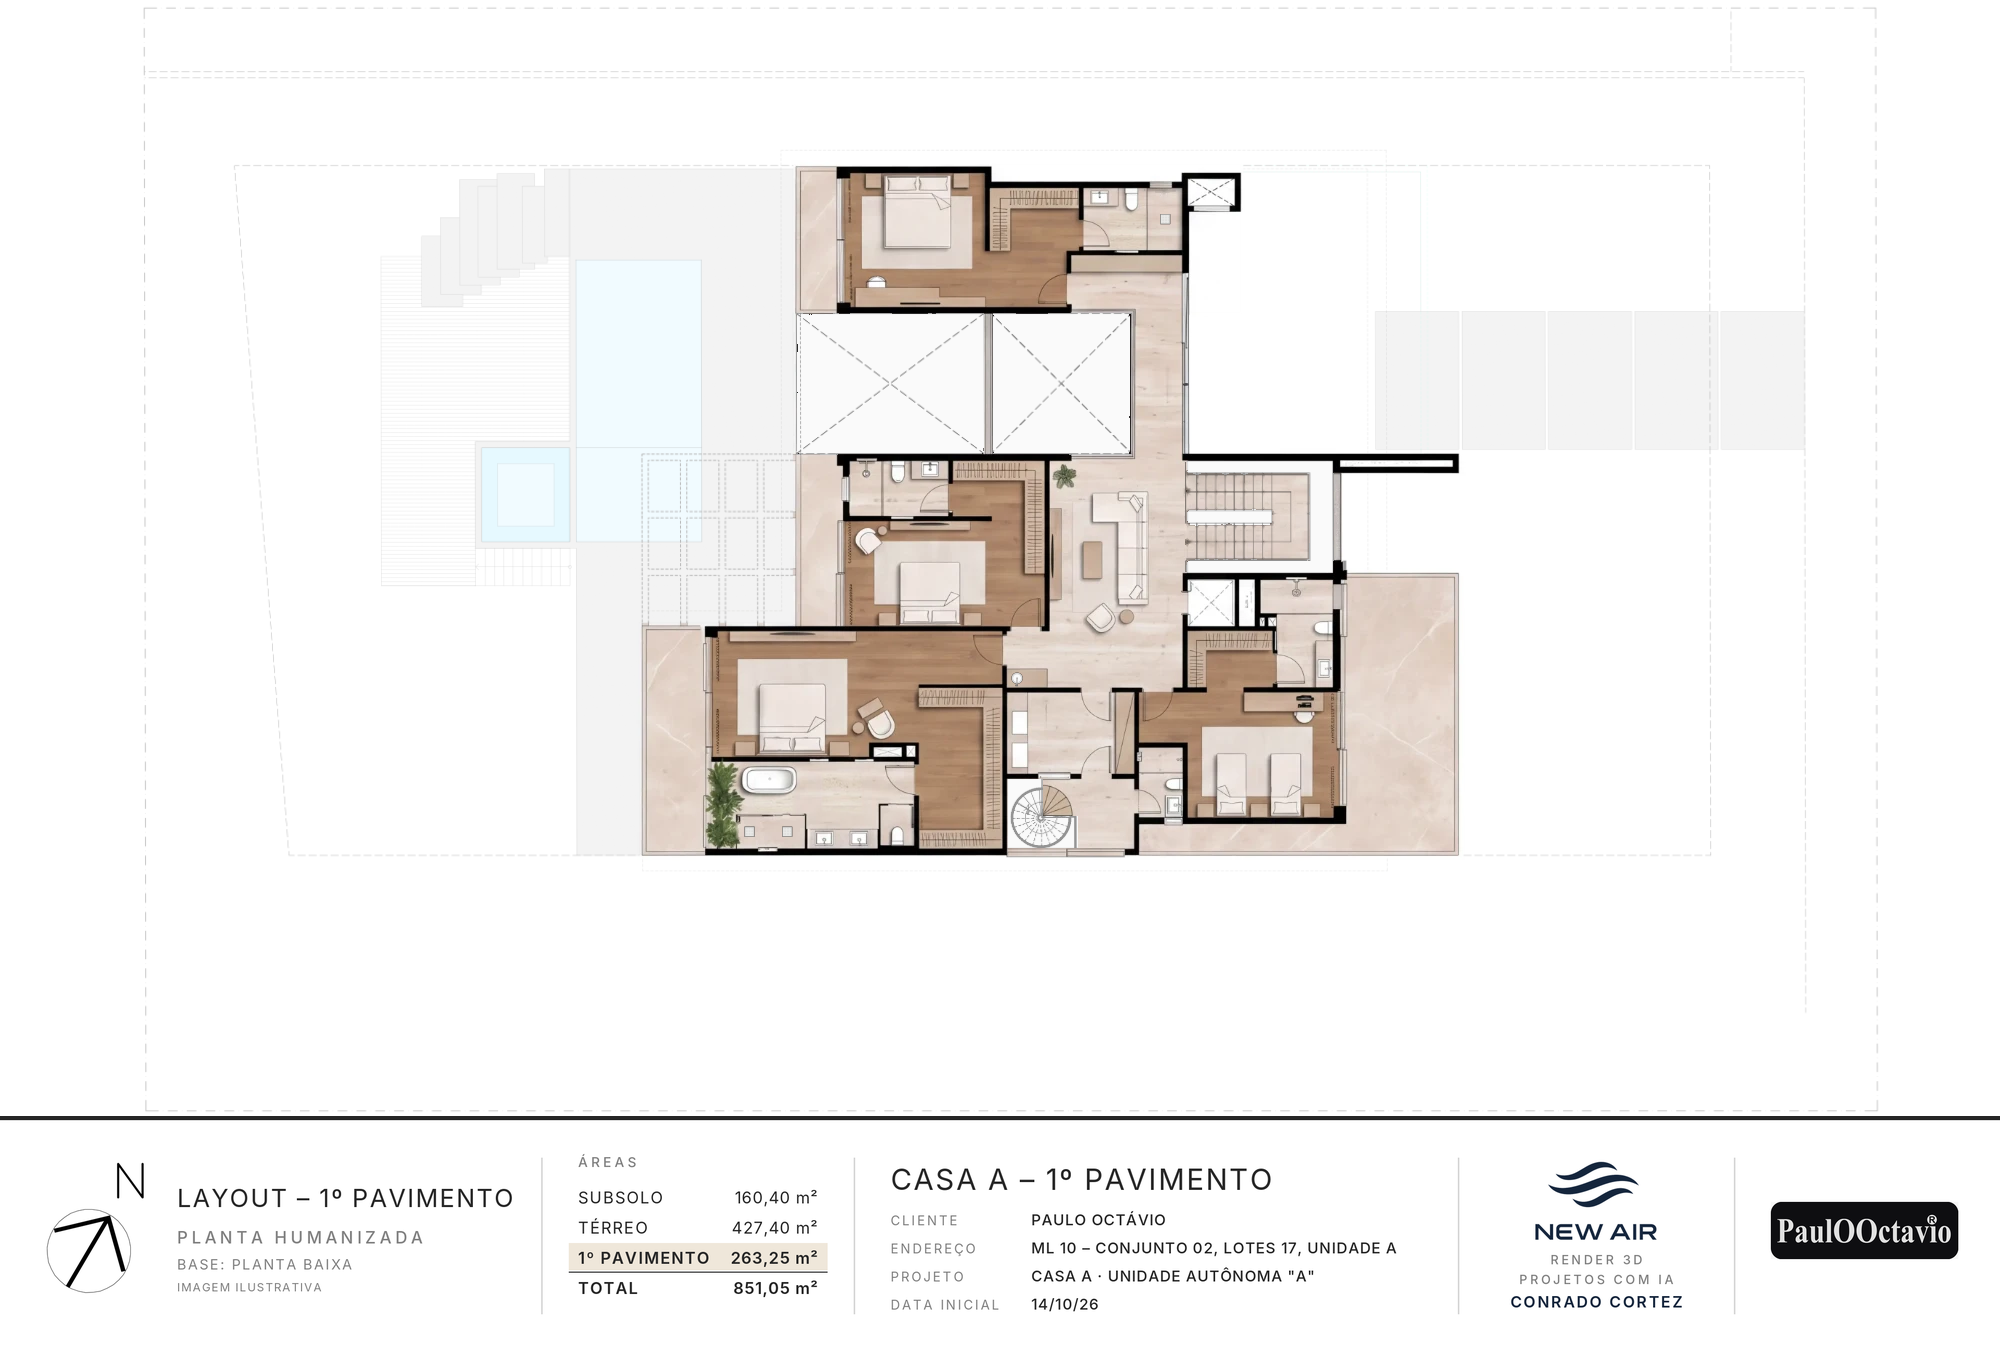
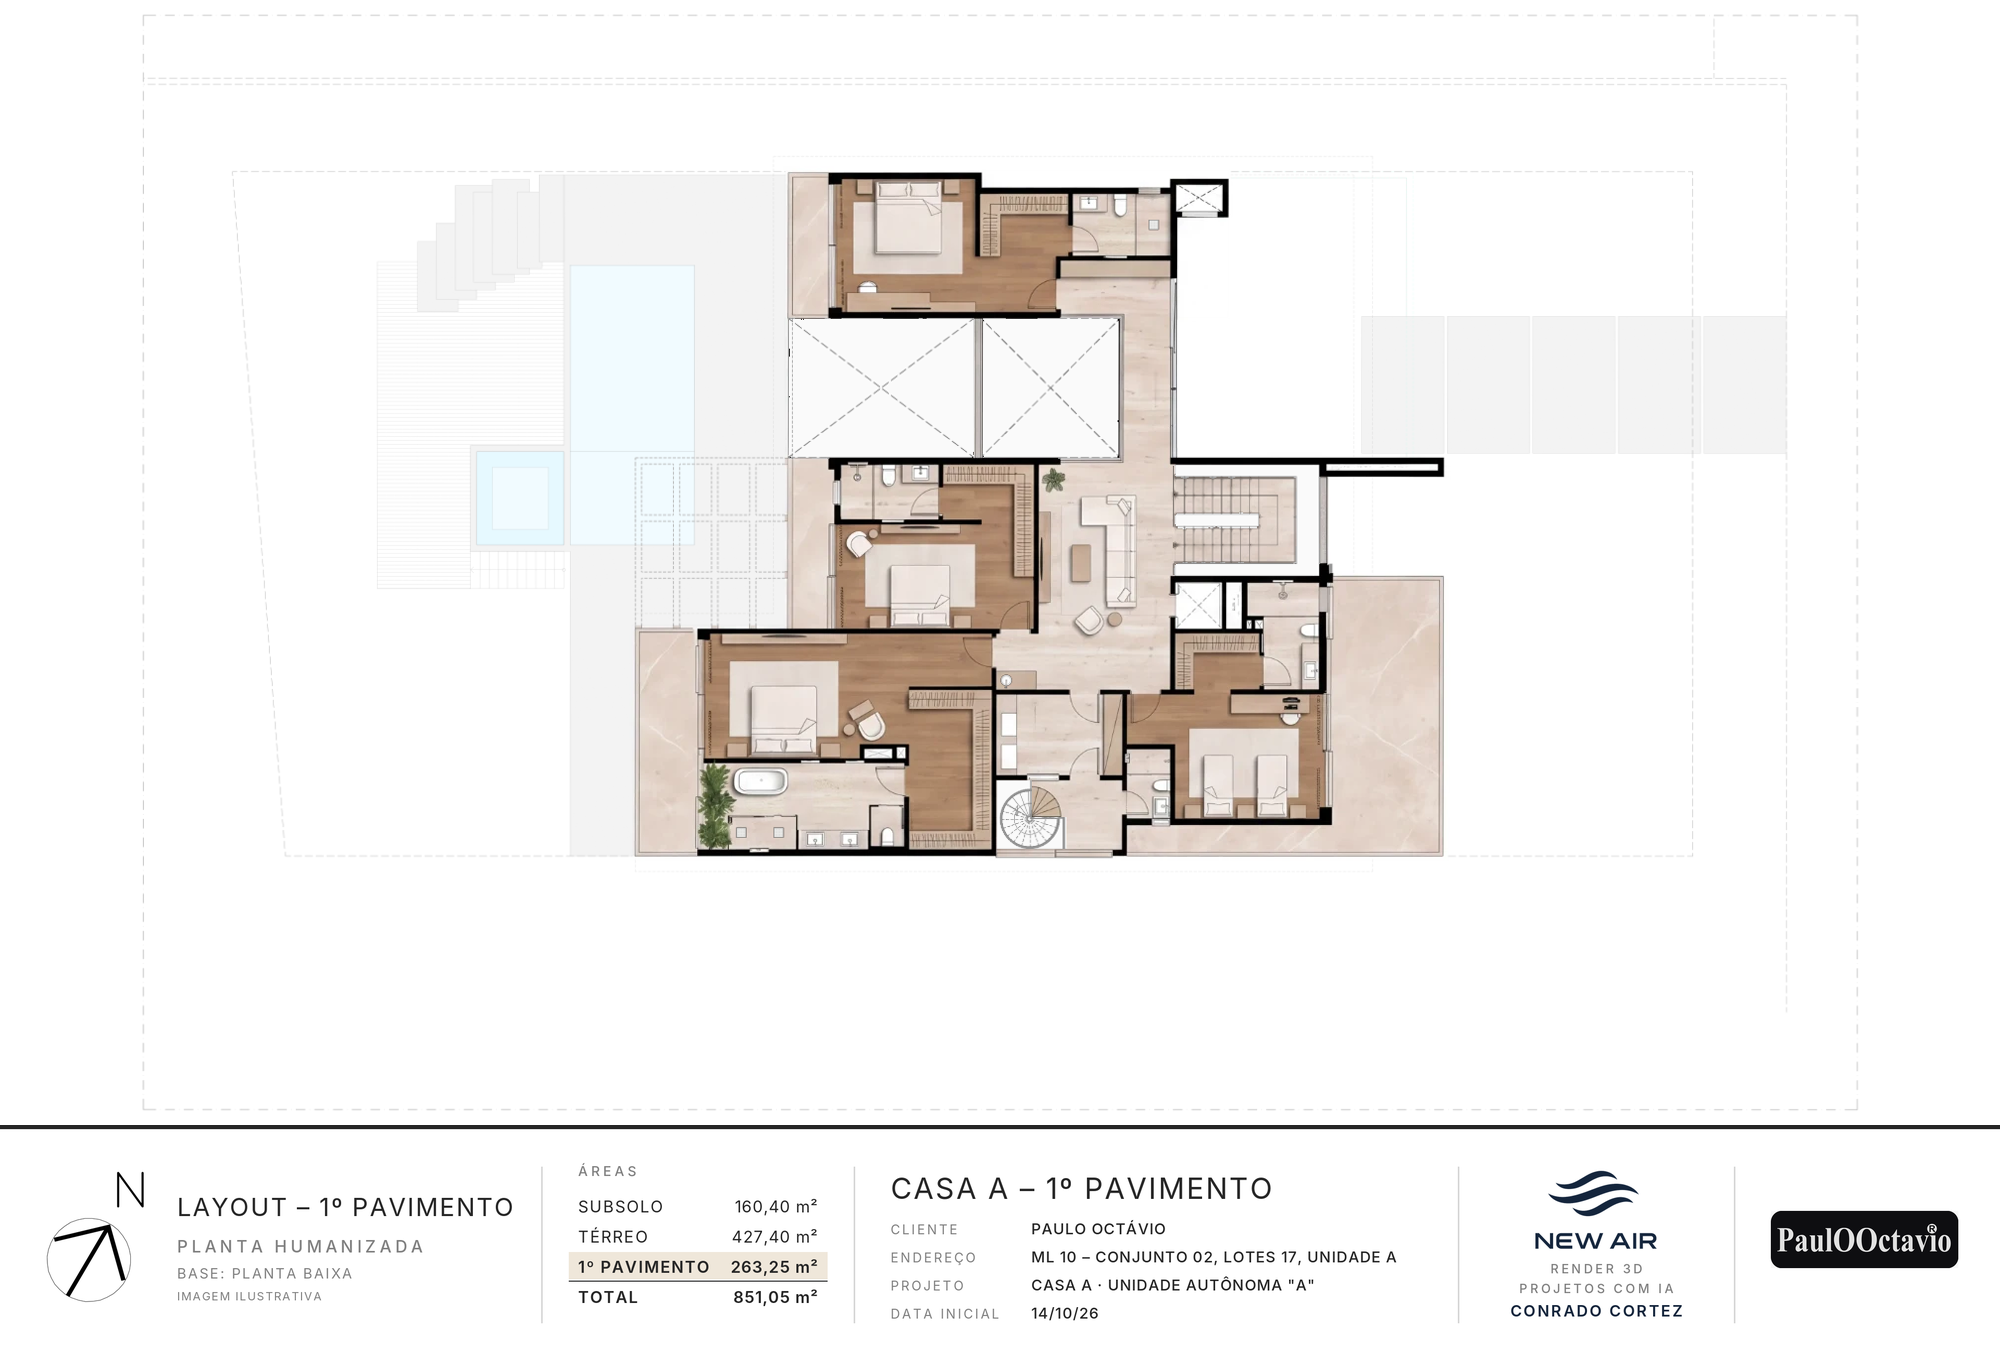
POE 642 Casa A: prancha do Térreo e pranchas no mesmo quadro
Cada render é alinhado à base do seu pavimento e levado ao quadro 16:9
comum (as três bases saem do mesmo enquadramento da folha do cliente), de
modo que as pranchas têm o mesmo tamanho e a planta no mesmo pixel. Entram
a prancha do Térreo, a do 1º Pavimento refeita e um GIF das duas
perfiladas.

Claude-Session: https://claude.ai/code/session_01Mm19WX3KoLN1nXMDF5Ay3F

diff --git a/projetos/POE642_CasaA/scripts/rodape_entrega.py b/projetos/POE642_CasaA/scripts/rodape_entrega.py
@@ -4,14 +4,21 @@
 Segue o carimbo da folha de layout do cliente (642-ARQ-EX-001): norte, título "LAYOUT – …",
 quadro de áreas, dados do projeto, assinatura do render (New Air) e marca do cliente. Não leva cotas.
 
+As pranchas têm todas o mesmo tamanho e a planta no mesmo lugar: cada render é alinhado
+(SIFT + afim) à base do seu pavimento, e as três bases saem do mesmo enquadramento da folha
+do cliente (a piscina cai no mesmo pixel nas três). Assim, vistas em sequência, uma planta
+fica exatamente "dentro" da outra.
+
 Uso:
   python rodape_entrega.py --saida ../entrega                    # só os três rodapés (3840 px)
-  python rodape_entrega.py --saida ../entrega --render 1Pavimento=../renders/x.png
-      # também a prancha: render + rodapé na largura do render
+  python rodape_entrega.py --saida ../entrega --render Terreo=../renders/t.png --render 1Pavimento=../renders/p.png
+      # também as pranchas: render alinhado ao quadro comum + rodapé
 """
 import argparse
 from pathlib import Path
 
+import cv2
+import numpy as np
 from PIL import Image, ImageDraw, ImageFont
 
 AQUI = Path(__file__).resolve().parent
@@ -142,11 +149,39 @@ def rodape(chave):
     return im.convert("RGB")
 
 
+BASES = {"Terreo": "POE642_CasaA_BASE_Terreo_v6_16x9.png",
+         "1Pavimento": "POE642_CasaA_BASE_1Pavimento_v3_16x9.png",
+         "Subsolo": "POE642_CasaA_BASE_Subsolo_v4_16x9.png"}
+
+
+def no_quadro_comum(render, chave, largura):
+    """Leva o render para o quadro da base 16:9 (o mesmo nos três pavimentos), na largura dada."""
+    base = cv2.imread(str(AQUI.parent / "bases" / BASES[chave]))
+    r = cv2.cvtColor(np.asarray(render), cv2.COLOR_RGB2BGR)
+    if r.shape[1] != largura:
+        r = cv2.resize(r, (largura, round(r.shape[0] * largura / r.shape[1])), interpolation=cv2.INTER_AREA)
+    altura = round(base.shape[0] * largura / base.shape[1])
+    base_red = cv2.resize(base, (largura, altura), interpolation=cv2.INTER_AREA)
+    sift = cv2.SIFT_create(12000)
+    k1, d1 = sift.detectAndCompute(cv2.cvtColor(base_red, cv2.COLOR_BGR2GRAY), None)
+    k2, d2 = sift.detectAndCompute(cv2.cvtColor(r, cv2.COLOR_BGR2GRAY), None)
+    bons = [a for a, b in cv2.BFMatcher().knnMatch(d1, d2, k=2) if a.distance < 0.75 * b.distance]
+    src = np.float32([k1[m.queryIdx].pt for m in bons])
+    dst = np.float32([k2[m.trainIdx].pt for m in bons])
+    A, inl = cv2.estimateAffine2D(src, dst, ransacReprojThreshold=2.5)   # base -> render
+    res = np.linalg.norm(src @ A[:, :2].T + A[:, 2] - dst, axis=1)[inl.ravel() == 1]
+    print(f"    {chave}: {int(inl.sum())} pontos, erro mediano {np.median(res):.2f} px")
+    al = cv2.warpAffine(r, cv2.invertAffineTransform(A), (largura, altura),
+                        flags=cv2.INTER_CUBIC, borderMode=cv2.BORDER_CONSTANT, borderValue=(255, 255, 255))
+    return Image.fromarray(cv2.cvtColor(al, cv2.COLOR_BGR2RGB))
+
+
 def main():
     ap = argparse.ArgumentParser(description=__doc__, formatter_class=argparse.RawDescriptionHelpFormatter)
     ap.add_argument("--saida", type=Path, default=AQUI.parent / "entrega")
     ap.add_argument("--render", action="append", default=[], metavar="PAVIMENTO=ARQUIVO",
                     help="monta a prancha render + rodapé (pode repetir)")
+    ap.add_argument("--largura", type=int, default=2000, help="largura das pranchas em px (a mesma nas três)")
     args = ap.parse_args()
     args.saida.mkdir(parents=True, exist_ok=True)
     feitos = {}
@@ -158,7 +193,7 @@ def main():
         print(caminho, r.size)
     for item in args.render:
         chave, arq = item.split("=", 1)
-        render = Image.open(arq).convert("RGB")
+        render = no_quadro_comum(Image.open(arq).convert("RGB"), chave, args.largura)
         rod = feitos[chave].resize((render.width, round(ALTURA * render.width / LARGURA)), Image.LANCZOS)
         prancha = Image.new("RGB", (render.width, render.height + rod.height), BRANCO)
         prancha.paste(render, (0, 0))

diff --git a/projetos/POE642_CasaA/scripts/README.md b/projetos/POE642_CasaA/scripts/README.md
@@ -89,6 +89,18 @@ A base é reduzida com média (`INTER_AREA`) antes da afim. O `warpAffine` não 
 python retoque_base_1pav.py ../renders/POE642_CasaA_PH_1Pavimento_v7_final.png ../bases/POE642_CasaA_BASE_1Pavimento_v3_16x9.png --saida ../renders
 ```
 
+## Pranchas de entrega: `rodape_entrega.py`
+
+Gera o rodapé de cada pavimento, em 3840 × 440 px, e monta as pranchas: render em cima e rodapé embaixo, na mesma largura.
+
+As três pranchas têm o mesmo tamanho e a planta no mesmo pixel, para que, vistas em sequência, uma fique exatamente dentro da outra:
+- **Base comum:** as três bases saem do mesmo enquadramento da folha do cliente. A piscina, por exemplo, cai no mesmo pixel nas três.
+- **Alinhamento:** cada render é alinhado à base do seu pavimento, por SIFT e transformação afim, e levado ao quadro 16:9 dessa base.
+
+```bash
+python rodape_entrega.py --saida ../entrega --render Terreo=../renders/POE642_CasaA_PH_Terreo_final_bege.png --render 1Pavimento=../renders/POE642_CasaA_PH_1Pavimento_v7_final2.png
+```
+
 ## Limitações conhecidas
 
 - Os PDFs da Casa A que estão no Drive (001 Layout, 004, 005, 006, 021) **não têm** a layer `ARQ_PAREDE` nem o cinza 0.357. O PDF que gerou as bases atuais foi enviado direto na conversa e precisa ser trazido para cá. Sem ele, o script gera só a base sem texto e avisa que a v3 não foi gerada.
